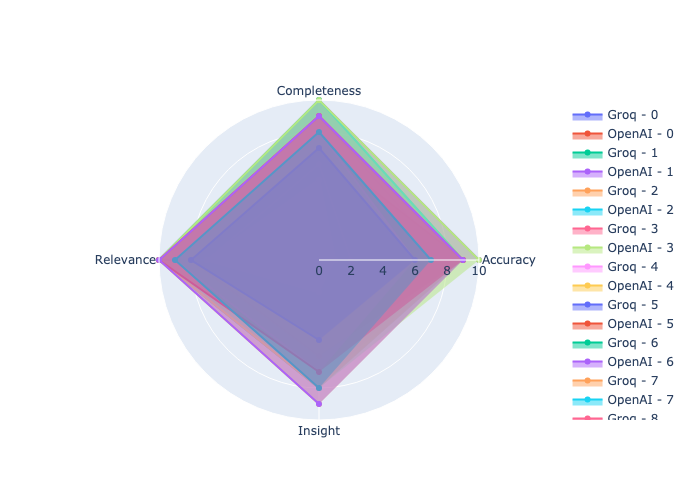
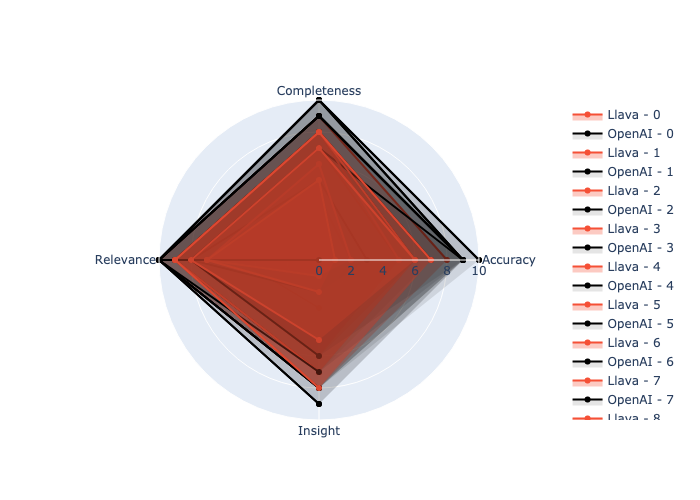
Update visualization and remove unnecessary code

Changed region(s): [[0.21, 0.18, 0.69, 0.81], [0.81, 0.21, 0.96, 0.84]]

diff --git a/analysis.py b/analysis.py
@@ -17,8 +17,13 @@ def speed_comparison_bar(df):
     plt.figure(figsize=(15, 8))
     x = range(len(df))
     width = 0.35
-    plt.bar(x, df['Groq_Time'], width, label='Groq', color='blue', alpha=0.7)
-    plt.bar([i + width for i in x], df['OpenAI_Time'], width, label='OpenAI', color='green', alpha=0.7)
+    
+    # Groq bars in #f55036
+    plt.bar(x, df['Groq_Time'], width, label='Groq', color='#f55036', alpha=1)
+    
+    # OpenAI bars in black
+    plt.bar([i + width for i in x], df['OpenAI_Time'], width, label='OpenAI', color='black', alpha=1)
+    
     plt.xlabel('Image-Prompt Combination')
     plt.ylabel('Response Time (s)')
     plt.title('Speed Comparison: Groq vs OpenAI')
@@ -58,13 +63,17 @@ def performance_radar(df):
             r=[row[f'Groq_{m}'] for m in metrics],
             theta=metrics,
             fill='toself',
-            name=f'Groq - {index}'
+            name=f'Llava - {index}',
+            line=dict(color='#f55036'),  # Set Groq color to #f55036
+            fillcolor='rgba(245, 80, 54, 0.3)'  # Set fill color to semi-transparent #f55036
         ))
         fig.add_trace(go.Scatterpolar(
             r=[row[f'OpenAI_{m}'] for m in metrics],
             theta=metrics,
             fill='toself',
-            name=f'OpenAI - {index}'
+            name=f'OpenAI - {index}',
+            line=dict(color='black'),  # Set OpenAI color to black
+            fillcolor='rgba(0, 0, 0, 0.1)'  # Set fill color to semi-transparent black
         ))
 
     # Add legend to figure
@@ -82,8 +91,8 @@ def performance_grouped_bar(df):
     openai_means = [df[f'OpenAI_{m}'].mean() for m in metrics]
 
     fig = go.Figure(data=[
-        go.Bar(name='Groq', x=metrics, y=groq_means, marker_color='blue'),
-        go.Bar(name='OpenAI', x=metrics, y=openai_means, marker_color='green')
+        go.Bar(name='Llava-1.5-7b', x=metrics, y=groq_means, marker_color='blue'),
+        go.Bar(name='GPT-4o-mini', x=metrics, y=openai_means, marker_color='black')
     ])
 
     fig.update_layout(
@@ -103,11 +112,11 @@ def performance_vs_speed_scatter(df):
     
     # Plot Groq data
     plt.scatter(df['Groq_Total'], df['Groq_Time'], 
-                color='orange', label='Groq', alpha=0.7)
+                color='#f55036', label='Groq', alpha=1)
     
     # Plot OpenAI data
     plt.scatter(df['OpenAI_Total'], df['OpenAI_Time'], 
-                color='blue', label='OpenAI', alpha=0.7)
+                color='blue', label='OpenAI', alpha=1)
     
     plt.xlabel('Total Score (Performance/Accuracy)')
     plt.ylabel('Response Time (seconds)')
@@ -136,13 +145,13 @@ def improved_overall_comparison(df):
     # Create a new dataframe for the heatmap
     heatmap_data = pd.DataFrame({
         'Metric': metrics,
-        'Groq': groq_means,
-        'OpenAI': openai_means
+        'Llava-1.5-7b': groq_means,
+        'GPT-4o-mini': openai_means
     })
     heatmap_data = heatmap_data.set_index('Metric')
 
     # Calculate the difference (OpenAI - Groq)
-    heatmap_data['Difference'] = heatmap_data['OpenAI'] - heatmap_data['Groq']
+    heatmap_data['Difference'] = heatmap_data['GPT-4o-mini'] - heatmap_data['Llava-1.5-7b']
 
     # Create the plot
     fig, (ax1, ax2) = plt.subplots(1, 2, figsize=(20, 8))
@@ -150,8 +159,8 @@ def improved_overall_comparison(df):
     # Grouped bar chart
     x = range(len(metrics))
     width = 0.35
-    ax1.bar([i - width/2 for i in x], groq_means, width, label='Groq', color='blue', alpha=0.7)
-    ax1.bar([i + width/2 for i in x], openai_means, width, label='OpenAI', color='green', alpha=0.7)
+    ax1.bar([i - width/2 for i in x], groq_means, width, label='Llava-1.5-7b', color='#f55036', alpha=1)
+    ax1.bar([i + width/2 for i in x], openai_means, width, label='GPT-4o-mini', color='black', alpha=1)
 
     ax1.set_ylabel('Scores')
     ax1.set_title('Overall Comparison: Groq vs OpenAI')
@@ -167,7 +176,7 @@ def improved_overall_comparison(df):
 
     # Heatmap for the difference
     sns.heatmap(heatmap_data[['Difference']], ax=ax2, cmap='RdYlGn', center=0, annot=True, fmt='.2f')
-    ax2.set_title('Difference (OpenAI - Groq)')
+    ax2.set_title('Difference (GPT-4o-mini - Llava-1.5-7b)')
 
     plt.tight_layout()
     plt.savefig(__location__ + "/report/images/overall_comparison_parallel.png")
@@ -219,10 +228,32 @@ def time_savings_area(df):
 
     fig = go.Figure()
     x_values = list(range(len(df)))  # Convert range to a list
-    fig.add_trace(go.Scatter(x=x_values, y=cumulative_groq, fill='tozeroy', name='Groq'))
-    fig.add_trace(go.Scatter(x=x_values, y=cumulative_openai, fill='tonexty', name='OpenAI'))
+    
+    # Groq area in orange
+    fig.add_trace(go.Scatter(
+        x=x_values, 
+        y=cumulative_groq, 
+        fill='tozeroy', 
+        name='Groq',
+        line_color='#f55036',
+        fillcolor='rgba(245, 80, 54, 0.3)'  # Semi-transparent orange
+    ))
+    
+    # OpenAI area in black
+    fig.add_trace(go.Scatter(
+        x=x_values, 
+        y=cumulative_openai, 
+        fill='tonexty', 
+        name='OpenAI',
+        line_color='black',
+        fillcolor='rgba(0, 0, 0, 0.1)'  # Semi-transparent black
+    ))
 
-    fig.update_layout(title='Cumulative Time Savings', xaxis_title='Number of Queries', yaxis_title='Cumulative Time (s)')
+    fig.update_layout(
+        title='Cumulative Time Savings', 
+        xaxis_title='Number of Queries', 
+        yaxis_title='Cumulative Time (s)'
+    )
     fig.write_image(__location__ + "/report/images/time_savings_area.png")
 
 def generate_markdown_report(df, report_name='vision_model_comparison'):
@@ -239,9 +270,6 @@ This report compares the performance of Groq and OpenAI vision models across var
 ## Performance Metrics
 ![Performance Radar Chart](images/performance_radar.png)
 ![Performance Grouped Bar Chart](images/performance_grouped_bar.png)
-
-## Speed vs Performance
-![Speed vs Performance Scatter Plot](images/performance_vs_speed_scatter.png)
 
 ## Overall Comparison
 ![Overall Comparison Parallel Coordinates](images/overall_comparison_parallel.png)

diff --git a/main.py b/main.py
@@ -133,20 +133,20 @@ if __name__ == "__main__":
     report_name = "vision_model_comparison"
     results = {}
 
-    total = 12
-    ix = 1
-    for image, data in image_data.items():
-        image_results = []
-        for prompt in data["prompts"]:
-            print(
-                f"[LOG] Process case {ix}/{total}, Image: {image}, Prompt: {prompt[:50]}..."
-            )
-            result = compare_models(image, prompt, data["ground_truth"])
-            image_results.append(result)
-            ix += 1
-        results[image] = image_results
+    # total = 12
+    # ix = 1
+    # for image, data in image_data.items():
+    #     image_results = []
+    #     for prompt in data["prompts"]:
+    #         print(
+    #             f"[LOG] Process case {ix}/{total}, Image: {image}, Prompt: {prompt[:50]}..."
+    #         )
+    #         result = compare_models(image, prompt, data["ground_truth"])
+    #         image_results.append(result)
+    #         ix += 1
+    #     results[image] = image_results
 
-    save_results_to_csv(results, report_name=report_name)
+    # save_results_to_csv(results, report_name=report_name)
 
     df = load_data(report_name=report_name)
 
@@ -159,7 +159,7 @@ if __name__ == "__main__":
     speed_scatter(df)
     performance_radar(df)
     performance_grouped_bar(df)
-    performance_vs_speed_scatter(df)
+    # performance_vs_speed_scatter(df)
     improved_overall_comparison(df)
     # efficiency_scatter(df)
     # model_size_performance_bar()

diff --git a/README.md b/README.md
@@ -107,19 +107,13 @@ The speed comparison clearly shows that the Groq LPU consistently outperforms Op
 
 The performance metrics show that while OpenAI's model generally scores higher across all evaluation criteria, the difference is not as substantial as the speed difference. Both models perform well in terms of relevance and completeness, with OpenAI having an edge in accuracy.
 
-### 3.3 Speed vs Performance
-
-![Speed vs Performance Scatter Plot](report/images/performance_vs_speed_scatter.png)
-
-This scatter plot provides a crucial insight into the trade-off between speed and performance. While OpenAI's model achieves higher total scores, it does so at the cost of longer processing times. Groq's model delivers competitive performance scores with much faster response times.
-
-### 3.4 Overall Comparison
+### 3.3 Overall Comparison
 
 ![Overall Comparison Parallel Coordinates](report/images/overall_comparison_parallel.png)
 
 The parallel coordinates plot offers a comprehensive view of how the models compare across all metrics. It visualizes the trade-offs between speed and various performance aspects, highlighting Groq's superior speed and OpenAI's edge in accuracy and completeness.
 
-### 3.5 Time Savings
+### 3.4 Time Savings
 
 ![Time Savings Area Chart](report/images/time_savings_area.png)
 

diff --git a/report/vision_model_comparison.md b/report/vision_model_comparison.md
@@ -12,9 +12,6 @@ This report compares the performance of Groq and OpenAI vision models across var
 ![Performance Radar Chart](images/performance_radar.png)
 ![Performance Grouped Bar Chart](images/performance_grouped_bar.png)
 
-## Speed vs Performance
-![Speed vs Performance Scatter Plot](images/performance_vs_speed_scatter.png)
-
 ## Overall Comparison
 ![Overall Comparison Parallel Coordinates](images/overall_comparison_parallel.png)
 
